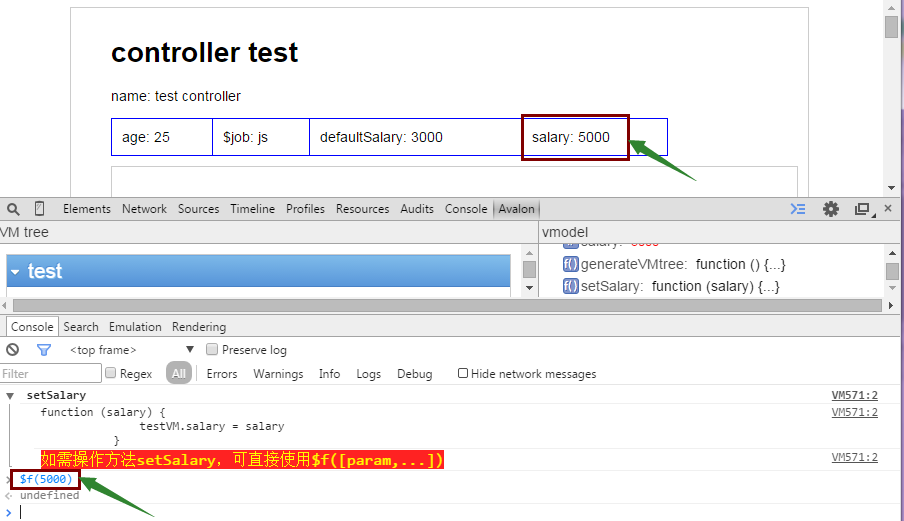
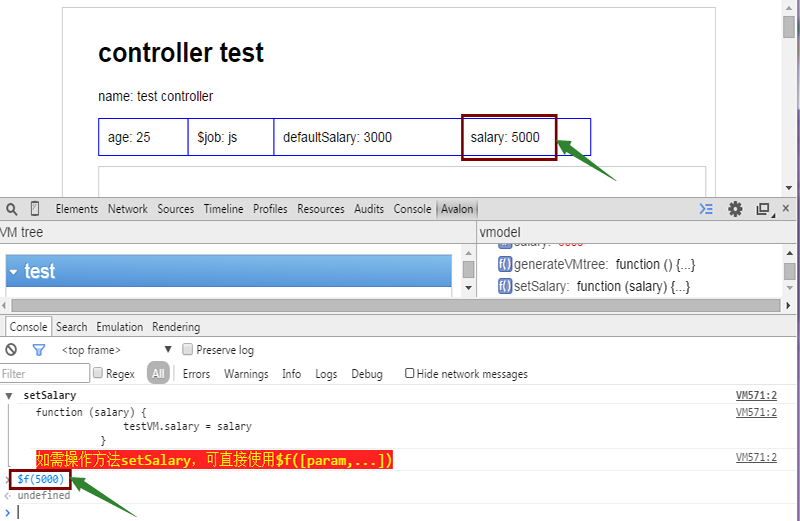
update document

diff --git a/README_Zh.md b/README_Zh.md
@@ -14,27 +14,27 @@
 
 将解压的**avalon debugger**目录文件拖放到扩展程序页即可完成安装
 
-<img width="100%" src="./img/screenshots/avalonInstall.png" title="avalon install screenshots" alt="avalon install screenshots"/>
+<img src="./img/screenshots/avalonInstall.png" title="avalon install screenshots" alt="avalon install screenshots"/>
 
 ## 使用
 
 成功安装**avalon debugger**之后，打开一个使用avalon的页面，**F12**打开chrome的调试控制台找到**Avalon**
 
-<img width="100%" src="./img/screenshots/avalonDebugger.png" title="avalon debugger tab" alt="avalon debugger tab"/>
+<img src="./img/screenshots/avalonDebugger.png" title="avalon debugger tab" alt="avalon debugger tab"/>
 
 切换到Avalon panel，提示我们开启avalon调试，**点击链接开启avalon调试功能**
 
-<img width="100%" src="./img/screenshots/avalonPanel.png" title="avalon panel" alt="avalon panel"/>
+<img src="./img/screenshots/avalonPanel.png" title="avalon panel" alt="avalon panel"/>
 
 开启调试之后会将页面上的VM controller按其嵌套关系展现在Avalon panel中的**VM tree**区域，可以展开、收起嵌套较深的VM
 
 **注:** 每个VM面板的header部分代表对应VM的id，可以通过**avalon.vmodels[id]**获取对应的Vmodel 
 
-<img width="100%" src="./img/screenshots/avalonVMTree.png" title="avalon VM tree" alt="avalon VM tree"/>
+<img src="./img/screenshots/avalonVMTree.png" title="avalon VM tree" alt="avalon VM tree"/>
 
 鼠标**悬停**在对应的VM上时页面上会标出其作用的**DOM范围**
 
-<img width="100%" src="./img/screenshots/avalonVMScope.png" title="avalon VM scope" alt="avalon VM scope"/>
+<img src="./img/screenshots/avalonVMScope.png" title="avalon VM scope" alt="avalon VM scope"/>
 
 点击对应的VM会在Avalon panel右侧的**vmodel**区域展示对应VM具有的数据结构，其中不可监控的数据属性用**删除线**标志，可监控的number、boolean、string类型属性可**直接调试**，且不同的数据类型通过不同的**color**和**icon**标志
 
@@ -61,25 +61,25 @@
 
 可见其中**$job**和**defaultSalary**是不可监控属性：
 
-<img width="100%" src="./img/screenshots/unwatchProperty.png" title="unwatch property" alt="unwatch property"/>
+<img src="./img/screenshots/unwatchProperty.png" title="unwatch property" alt="unwatch property"/>
 
 对于可监控的age、name、salary我们都可以直接调试, 以**test**的**age**属性为例，默认为**5**，我们将其修改为**25**：
 
-<img width="100%" src="./img/screenshots/watchPropDebugger.png" title="watch enabled property" alt="watch enabled property"/>
+<img src="./img/screenshots/watchPropDebugger.png" title="watch enabled property" alt="watch enabled property"/>
 
 **age**属性设置值**25**回车之后，**age**自动更新:
 
-<img width="100%" src="./img/screenshots/watchPropDebugResult.png" title="watch enabled property debugger result" alt="watch enabled property debugger result"/>
+<img src="./img/screenshots/watchPropDebugResult.png" title="watch enabled property debugger result" alt="watch enabled property debugger result"/>
 
 如果需要调用VM的方法进行调试，只需点击对应的**function name**，就可以在**console**控制台下看到对应方法的**实现**，并且该方法可在console控制台下通过**$f**引用，调用**$f()**即执行对应的方法
 
 以上面定义的**test VM**的**setSalary**方法为例，点击**setSalary**后console控制台的显示如下：
 
-<img width="100%" src="./img/screenshots/funcDebug.png" title="function debugger" alt="function debugger"/>
+<img src="./img/screenshots/funcDebug.png" title="function debugger" alt="function debugger"/>
 
 调用**$f**方法，同时传入**5000**来修改**salary**，可以看到页面**salary**的变化：
 
-<img width="100%" src="./img/screenshots/funcDebuggerResult.png" title="function debugger result" alt="function debugger result"/>
+<img src="./img/screenshots/funcDebuggerResult.png" title="function debugger result" alt="function debugger result"/>
 
 如果不确定Avalon panel中vmodel展示的信息是否正确，可以根据VM tree区域展示的VM id手动在console控制台调用avalon.vmodels[id]来查看VM
 
